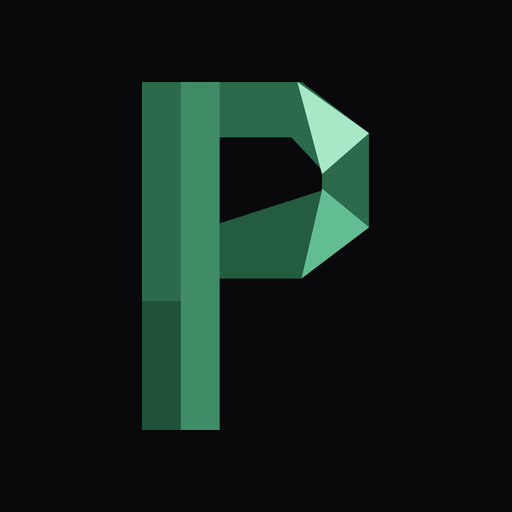
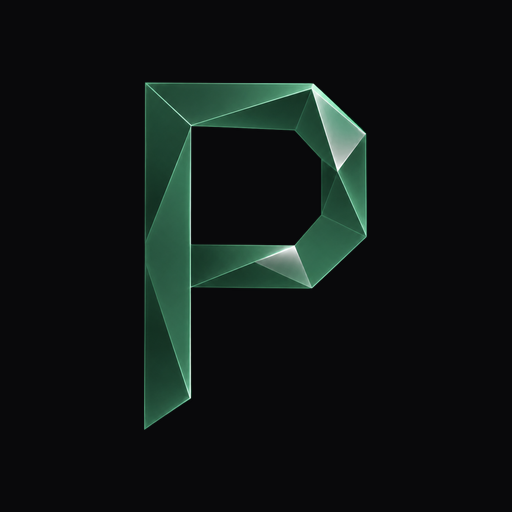
Marchio vero: la P 3D nelle icone e nella card
Ivan ha bocciato la P vettoriale piatta ("la Pmark, terribile messa li'", "la favicon pure non mi
piace"): il segno di Pionio e' tridimensionale e sfaccettato, ridisegnarlo piatto lo snatura.

- Icone: sorgente `brand/p-mark-3d.png`, il marchio vero, su lastra #09090b.
- Card: la P non e' piu' appoggiata sopra la grafica ma esce dal nero — grande, opaca a meta',
  sfumata verso sinistra, cosi' legge come luce e non come adesivo (variante scelta da Ivan).
- `brand/p-mark.svg` resta solo come silhouette piatta per il tab bloccato di Safari, che non puo'
  essere altro che monocromatica.

Claude-Session: https://claude.ai/code/session_013feSjAhFQcNvA32hQokam5

Changed region(s): [[0.25, 0.1562, 0.7188, 0.8438]]

diff --git a/scripts/social/pionio-og.html b/scripts/social/pionio-og.html
@@ -46,15 +46,20 @@
                 radial-gradient(ellipse 85% 70% at 20% 95%, rgba(9, 9, 11, 0.9), transparent 60%);
         }
 
+        /* The real 3D mark, coming out of the black rather than sitting on top of it: half opacity
+           and a gradient mask, so the right side reads as light and not as a sticker. */
         .mark {
             position: absolute;
-            right: -108px;
-            bottom: -96px;
-            width: 620px;
-            height: 620px;
+            right: -150px;
+            top: 50%;
+            transform: translateY(-50%);
+            width: 760px;
+            height: 760px;
             object-fit: contain;
-            opacity: 0.92;
-            filter: drop-shadow(0 30px 90px rgba(0, 0, 0, 0.75));
+            opacity: 0.5;
+            filter: blur(0.4px) saturate(0.85);
+            -webkit-mask-image: linear-gradient(90deg, transparent, #000 45%);
+            mask-image: linear-gradient(90deg, transparent, #000 45%);
         }
 
         .stage {
@@ -98,7 +103,7 @@
 
 <body>
     <div class="aurora"></div>
-    <img class="mark" src="../../brand/p-mark.svg" alt="" />
+    <img class="mark" src="../../brand/p-mark-3d.png" alt="" />
     <div class="stage">
         <h1>Disegno
 quello che poi
